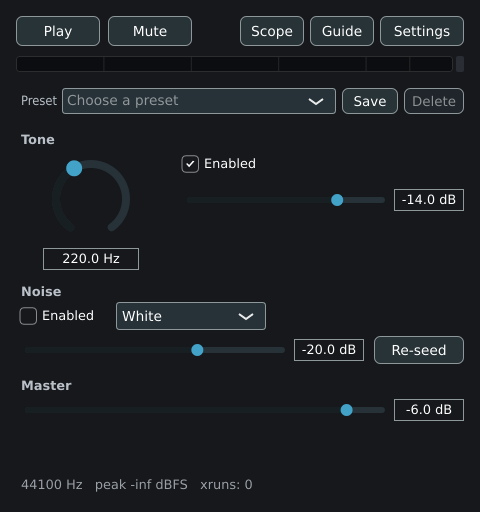
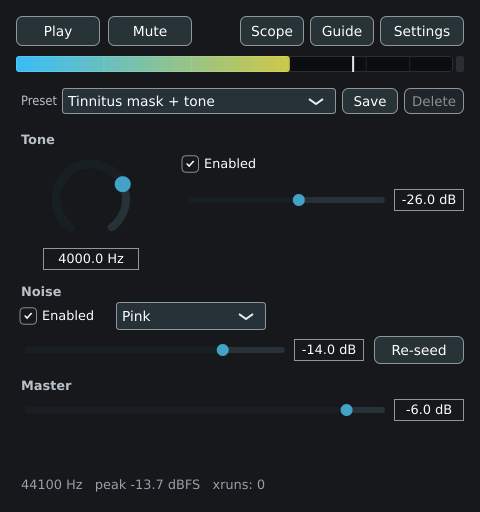
docs: refresh screenshots and docs for presets / colours / scope / plugin
- new main + main-scope screenshots showing the preset menu (with a preset
  applied), noise colour, and the collapsible oscilloscope
- README status line rewritten; screenshot captions updated
- CLAUDE.md: state is now M3-in-progress; noisefield_core also holds the preset
  JSON; GUI section covers the preset menu and io::PresetStore; directory notes
- plan.md: data-model section rewritten around model::Preset / .nfp / PresetStore
  (Project/Layer deferred to NF-041); directory tree brought up to date
- guide.md: "coloured noise" not "white noise", status-line description fixed,
  a preset tip added

diff --git a/CLAUDE.md b/CLAUDE.md
@@ -4,11 +4,12 @@ This file provides guidance to Claude Code (claude.ai/code) when working with co
 
 ## What this is
 
-Noisefield is a native Linux desktop app (C++20 + JUCE 8) that generates a tone and white
-noise, mixes them, and sends the result to an audio output. It is a personal tinnitus-relief
-tool. Current state: milestone **M2** (audible MVP). The roadmap, milestones (M1–M4), the
-unscheduled/mobile work and the bug list all live in `docs/backlog.md`; the design rationale
-is in `docs/plan.md`.
+Noisefield is a native Linux desktop app (C++20 + JUCE 8) that generates a tone and coloured
+noise, mixes them, and sends the result to an audio output — plus a VST3/LV2/CLAP plugin
+from the same engine. It is a personal tinnitus-relief tool. State: **M2** done, **M3** in
+progress (noise colours, presets, JSON model done; layer rework pending), with some M4 items
+(oscilloscope, dBFS meter, packaging) already in. The roadmap, milestones (M1–M4) and the
+bug list are in `docs/backlog.md`; the design rationale is in `docs/plan.md`.
 
 ## Commands
 
@@ -63,10 +64,11 @@ Dependencies and per-distro package lists: `docs/building.md`.
 The CMake target layout keeps the JUCE modules compiled **once per final artefact** and never
 inside a shared library (that would cause duplicate-symbol link errors):
 
-- **`noisefield_dsp`** (INTERFACE, `src/dsp/` + `src/model/`) — header-only, **no JUCE**.
-  Pure `std` so it is fast to unit-test. This is what `tests/` builds against.
-- **`noisefield_core`** (STATIC, `src/core/`) — tiny compiled bits with no JUCE dependency
-  (build-info string from the generated `noisefield/Config.h`). Links `noisefield_dsp`.
+- **`noisefield_dsp`** (INTERFACE, `src/dsp/` + `src/model/` headers) — header-only, **no
+  JUCE**. Pure `std` so it is fast to unit-test. This is what `tests/` builds against.
+- **`noisefield_core`** (STATIC, `src/core/` + `src/model/PresetJson.cpp`) — compiled bits
+  with no JUCE dependency: the build-info string (from generated `noisefield/Config.h`) and
+  the hand-rolled preset JSON (`model::toJson` / `model::fromJson`). Links `noisefield_dsp`.
 - **`noisefield_engine`** (INTERFACE) — the real-time `engine::SignalGraph` (`SignalGraph.cpp`),
   **framework-free** (no JUCE; denormal protection is the caller's job). Both the app and the
   plugin link it, so `SignalGraph.cpp` compiles once into each. Unit tests link it too.
@@ -114,17 +116,23 @@ belongs in `src/engine/` instead.
 
 ## GUI structure
 
-`app::MainComponent` is the main window (transport, tone, noise, master, meter). Two
-secondary windows are opened on demand via `gui::DetachedWindow` (non-modal, owner nulls its
-`unique_ptr` on close):
+`app::MainComponent` is the main window: transport, a preset menu, a collapsible
+oscilloscope, the dBFS level meter, and the tone / noise / master sections. Two secondary
+windows open on demand via `gui::DetachedWindow` (non-modal, owner nulls its `unique_ptr` on
+close):
 
 - `gui::SettingsComponent` — soft-limiter toggle + `juce::AudioDeviceSelectorComponent`.
 - `gui::GuideView` — renders the embedded `docs/guide.md` with a small hand-rolled Markdown
   subset renderer (`AttributedString` + `TextLayout`). `docs/guide.md` is the source of
   truth; editing it changes the in-app guide (after a rebuild re-embeds it).
 
-Control values and the audio-device state persist via `juce::PropertiesFile`
-(`~/.config/Noisefield/`), written on clean exit.
+**Presets**: factory presets are a `std::vector<model::Preset>` in `src/app/Presets.cpp`;
+user presets are `.nfp` (JSON) files under `~/.config/Noisefield/presets/`, read/written by
+`io::PresetStore`. `model::Preset` is the full flat sound state; `readState()` /
+`applyPreset()` on `MainComponent` convert between it and the controls.
+
+Control values, the scope's expanded state and the audio-device state persist via
+`juce::PropertiesFile` (`~/.config/Noisefield/`), written on clean exit.
 
 ## Conventions
 

diff --git a/docs/plan.md b/docs/plan.md
@@ -113,16 +113,24 @@ Principles:
 
 ### 3.1 Data model
 
-- **Project** = ordered list of **Layers** + master bus settings + session settings
-  (timer, fades).
-- **Layer:**
-  - `type`: `oscillator` | `noise`
-  - Oscillator: `shape` (sine/triangle/square/saw), `frequency`, `finetune`, `phase`
-  - Noise: `color` (white/pink/brown/blue/violet/grey), `seed`
-  - Band filter: `mode` (lowpass/highpass/bandpass/notch/off), `cutoff frequency`, `Q`
-  - Mix: `gain`, `pan`, `mute`, `solo`
-  - Modulation: assignments {source → destination, amount}
-- Serialization: JSON (`juce::var` or `nlohmann::json`), with a schema version number.
+**Today** (`src/model/`): `model::Preset` is the full flat sound state — tone
+(enabled/frequency/gain), noise (enabled/colour/gain/seed), master (gain/mute/limiter) —
+with `kSchemaVersion`. `model::toJson` / `model::fromJson` (`PresetJson.cpp`, hand-rolled,
+JUCE-free) read and write it as a small flat JSON object; `fromJson` tolerates unknown keys
+and nested structures so a v1 build can open a future v2 file. Preset files are `.nfp`
+(that JSON) under `~/.config/Noisefield/presets/`, managed by `io::PresetStore`.
+
+**Future (with the M3 engine rework, NF-041):** promote to a **Project** — an ordered list
+of **Layers** + master bus + session settings (timer, fades). A Layer:
+
+- `type`: `oscillator` | `noise`
+- Oscillator: `shape` (sine/triangle/square/saw), `frequency`, `finetune`, `phase`
+- Noise: `color` (white/pink/brown/blue/violet/grey), `seed`
+- Band filter: `mode` (lowpass/highpass/bandpass/notch/off), `cutoff frequency`, `Q`
+- Mix: `gain`, `pan`, `mute`, `solo`
+- Modulation: assignments {source → destination, amount}
+
+Schema version bumps to 2; `fromJson` migrates.
 
 ## 4. Core functionality (MVP)
 
@@ -249,20 +257,21 @@ cmake --build build --target calibrate_noise
 
 ```
 noisefield/
-├─ CMakeLists.txt
-├─ cmake/               # helpers, JUCE FetchContent
+├─ CMakeLists.txt         # + CPack (.deb / .rpm)
+├─ cmake/                 # FetchJUCE / FetchCatch2 / FetchClapExtensions
 ├─ src/
-│  ├─ app/              # Main, MainComponent, window
-│  ├─ engine/           # AudioEngine, graph, mixer, master bus
-│  ├─ dsp/              # oscillators, noise generators, filters, modulators
-│  ├─ model/            # Project, Layer, JSON serialization
-│  ├─ gui/              # components: LayerList, Mixer, Analyzer, Transport
-│  └─ io/               # recorder, exporter, headless CLI
-├─ tests/               # Catch2: dsp, model, offline render
-├─ resources/           # icons, factory presets, fonts
-├─ packaging/           # AppImage, Flatpak manifest, .desktop
-├─ docs/               # plan.md, backlog.md, building.md, guide.md, realtime-rules.md
-└─ .github/workflows/
+│  ├─ app/                # Main, MainComponent, Presets (factory)
+│  ├─ engine/             # SignalGraph (shared RT path) + AudioEngine (device wrapper)
+│  ├─ dsp/                # oscillator, noise + NoiseTint, limiter, smoother, ScopeBuffer
+│  ├─ model/              # Preset + PresetJson (schema-versioned .nfp); Project/Layer later
+│  ├─ gui/                # LevelMeter, Oscilloscope, SettingsComponent, GuideView, DetachedWindow
+│  ├─ io/                 # PresetStore (recorder / exporter / headless CLI later)
+│  └─ plugin/             # NoisefieldAudioProcessor (VST3 / LV2 / CLAP)
+├─ tests/                 # Catch2: dsp, engine (SignalGraph), model (preset JSON)
+├─ tools/                 # calibrate_noise
+├─ resources/             # icon, .desktop
+├─ docs/                  # plan.md, backlog.md, building.md, guide.md, realtime-rules.md, images/
+└─ .github/workflows/     # ci.yml, release.yml
 ```
 
 ## 10. Risks and mitigations

diff --git a/docs/guide.md b/docs/guide.md
@@ -1,13 +1,13 @@
 # Noisefield — User guide
 
-Noisefield generates a pure tone and white noise, mixes them, and sends the result to your
+Noisefield generates a pure tone and coloured noise, mixes them, and sends the result to your
 audio output. Use it to build a sound that helps in the moment.
 
 ## Getting started
 
 - Press **Play**.
-- Raise **Tone level** and/or **White noise level** from the bottom.
-- Set the **Frequency** and the master **Level** to taste.
+- Pick a **Preset**, or raise the **Tone** and/or **Noise** level from the bottom.
+- Set the **Frequency**, the **Noise colour**, and the master **Level** to taste.
 - **Mute** silences the output instantly without stopping playback.
 
 Start with the master **Level** low and bring it up slowly. All settings are remembered for
@@ -80,9 +80,9 @@ the signal is being clipped by the limiter. Toggle it with the **Scope** button.
 
 - **Level** — overall output loudness, applied after the tone and noise are summed.
 
-The status line at the bottom shows the app version, the current sample rate, and the number
-of audio dropouts (xruns) since the device opened. It should stay at 0; if it climbs, raise
-the buffer size in Settings.
+The status line at the bottom shows the current sample rate, the recent peak level in dBFS,
+and the number of audio dropouts (xruns) since the device opened. The xrun count should stay
+at 0; if it climbs, raise the buffer size in Settings.
 
 ## Settings window
 
@@ -104,7 +104,8 @@ Changes here are saved and restored automatically.
 
 - For masking, noise with a touch of tone often works better than either alone.
 - If a tone frequency feels right, type it in so you can return to it exactly.
-- Keep the limiter on and leave headroom on the master, so bringing a layer up never jumps
+- Keep the limiter on and leave headroom on the master, so bringing a level up never jumps
   to a harsh peak.
+- **Save** a mix you like so you can come back to it; delete the ones that don't work.
 
 This app is a personal tool, not a medical device.

diff --git a/README.md b/README.md
@@ -15,9 +15,10 @@ medical device.
 
 Noisefield is built 100% AI-assisted.
 
-> Status: **milestone M2 (audible MVP)**. Tone + white noise + mixer + master limiter, with
-> a level meter and device selection. See [`docs/plan.md`](docs/plan.md) for the full plan
-> and [`docs/backlog.md`](docs/backlog.md) for tasks.
+> Status: **M2 done, M3 in progress.** Tone + six noise colours + mixer + soft-limited master,
+> a dBFS meter, a collapsible oscilloscope, factory and user presets, and a VST3/LV2/CLAP
+> plugin. See [`docs/plan.md`](docs/plan.md) for the full plan and
+> [`docs/backlog.md`](docs/backlog.md) for tasks.
 
 ## Download
 
@@ -30,8 +31,9 @@ the VST3 / LV2 / CLAP plugins. To build from source instead, see below.
 
 <p align="center">
   <img src="docs/images/main.png" alt="Noisefield main window" width="440"><br>
-  <em>Main window: transport, the tone source (frequency knob with Hz entry, and level), the
-  noise source (colour and level), the master level, and the dBFS output meter.</em>
+  <em>Main window: transport, the preset menu (factory + saved presets), the tone source
+  (frequency knob with Hz entry, and level), the noise source (colour and level), the master
+  level, and the dBFS output meter.</em>
 </p>
 
 <p align="center">
